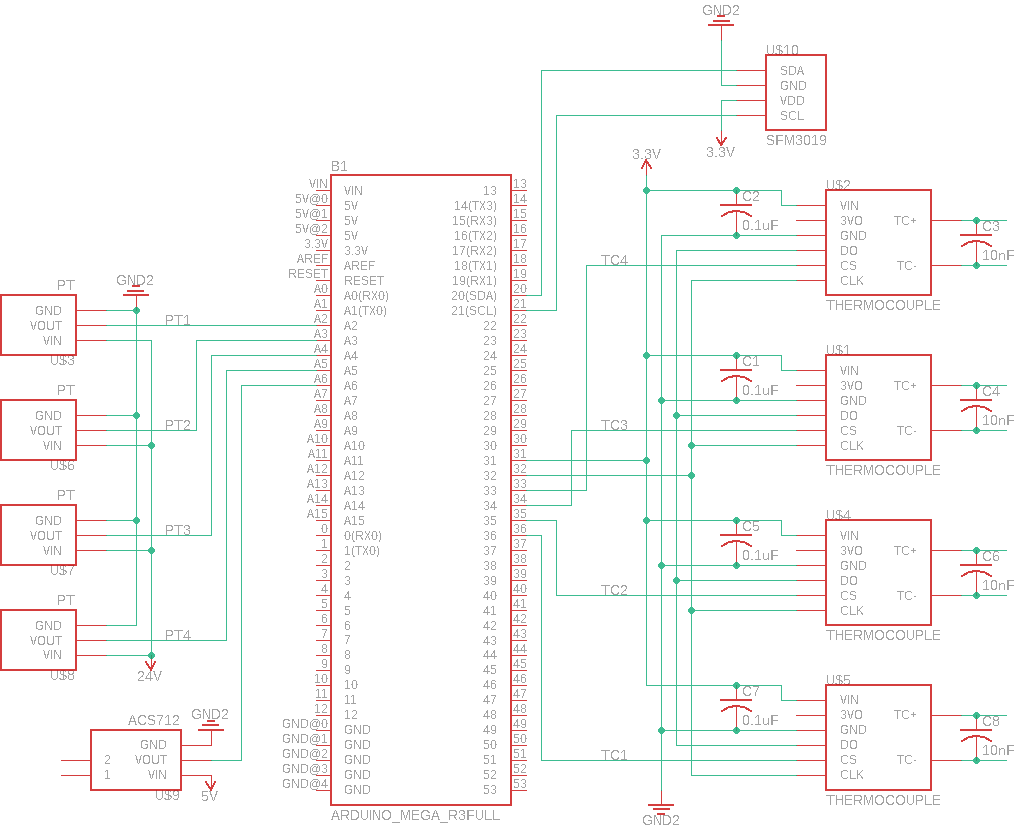
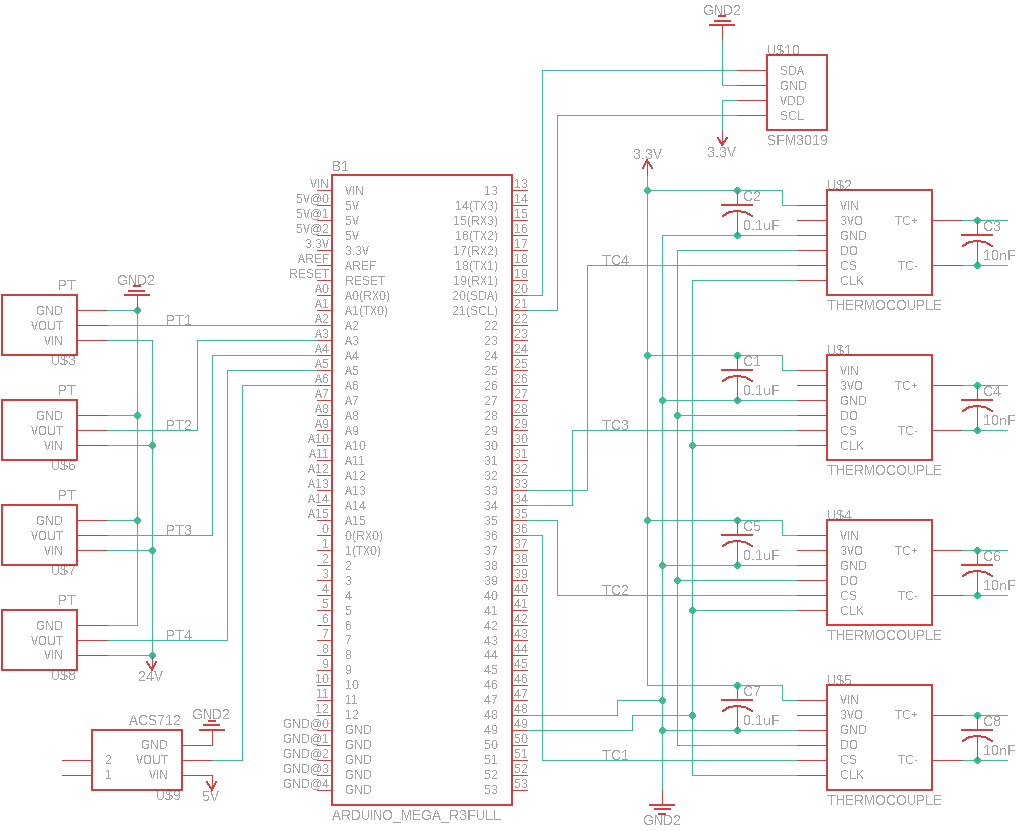
added more instrumentation detail

diff --git a/design/hardware/instrumentation.md b/design/hardware/instrumentation.md
@@ -38,7 +38,7 @@ The test stand has the capability of measuring fluid pressure, temperature, and 
 
 [Type K thermocouples](../../assets/datasheets/JMTSS.pdf) are used to measure the flow temperature at several locations. Flow temperature is measured upstream of the test article, at the mid-point of the test article, and downstream of the test article. The temperature of the heat sink is also take for safety limits. Each of the four thermocouples are ungrounded MGO probes with a 1/8 in. SS 304 sheath.
 
-To perform temperature measurement, [MAX31855](../../assets/datasheets/MAX31855.pdf) chips are used. These chips are 14-bit analog to digital converters which communicate via read-only SPI. A 0.1 uF capacitor is placed between VIN and GND on each chip to filter the input, and a 10 nF capacitor is placed between the thermocouple leads to filter out noise. Each of the chips share the DO (data output) and CLK (clock) lines, but each is assigned its own CS (chip select) line. Example Arduino may be found [here](https://github.com/Zanduino/MAX31855/blob/master/examples/Demo/Demo.ino).
+To perform temperature measurement, [MAX31855](../../assets/datasheets/MAX31855.pdf) chips are used. These chips are 14-bit analog to digital converters which communicate via read-only SPI. A 0.1 uF capacitor is placed between VIN and GND on each chip to filter the input, and a 10 nF capacitor is placed between the thermocouple leads to filter out noise. Each of the chips share the DO (data output) and CLK (clock) lines, but each is assigned its own CS (chip select) line. Example Arduino firmware may be found [here](https://github.com/Zanduino/MAX31855/blob/master/examples/Demo/Demo.ino).
 
 |![Thermocouple ADC](../../assets/images/thermocouple_adc.png)|
 |:-:|
@@ -112,7 +112,7 @@ To perform temperature measurement, [MAX31855](../../assets/datasheets/MAX31855.
 
 #### Pressure Transducers
 
-The pressure transducers used in the experiment are analog sensors which output a 0-10 VDC signal linearly correlated to a 0-200 psig range. These pressure transducers require a 14-36 VDC excitation, though, the instrumentation configuration here supplies a 24 VDC supply precisely. The 10-bit resolution of the Arduino Mega 2560's built-in analog-to-digital converter is sufficient for this test stand as can resolve 0.488 psig change in pressure. Although the analog input of the Arduino is 5 VDC while the pressure transducers output 10 VDC full range, the pressures experienced during testing will remain below 100 psig, meaning the pressure transducers never output more than 5 VDC.
+The pressure transducers used in the experiment are analog sensors which output a 0-10 VDC signal linearly correlated to a 0-200 psig range. These pressure transducers require a 14-36 VDC excitation, though, the instrumentation configuration here supplies a 24 VDC supply precisely. The 10-bit resolution of the Arduino Mega 2560's built-in analog-to-digital converter is sufficient for this test stand as it can resolve 0.488 psig change in pressure. Although the analog input of the Arduino is 5 VDC while the pressure transducers output 10 VDC full range, the pressures experienced during testing will remain below 100 psig, meaning the pressure transducers will never output more than 5 VDC.
 
 To convert from voltage to pressure, the following relation is used.
 
@@ -126,11 +126,21 @@ The pressure transducers have their excitation lines tied together at 24 VDC, gr
 
 #### Mass Flow Meter
 
+The test stand utilizes a cost effective [Sensiron mass flow meter](../../assets/datasheets/Sensirion_Mass_Flow_Meters_SFM3019_Datasheet.pdf) which is a digital flow meter with a range up to 240 slm with a low pressure drop across the sensor. It communicates via I<sup>2</sup>C with the Arduino.
+
+The [Sensiron GitHub repository](https://github.com/Sensirion/embedded-sfm/tree/master/sfm3019) provides an example Arduino implementation to operate the sensor.
+
 |![Mass Flow Sensor](../../assets/images/mass_flow_sensor.png)|
 |:-:|
 |Mass Flow Sensor|
 
 #### Current Sensor
+
+To measure the power supplied by the heater, an ACS712 current sensor is used. This Hall effect-based linear current sensor has a range of 5 Amps and produces an analog voltage between 0-5 VDC proportional to the measured current.
+
+Using the 10-bit analog-to-digital converter on the Arduino Mega, the sensor can resolve a 5 mA change in current. Assuming the mains AC voltage supplied is a constant 120 VAC, the power supplied by the heater is calculated via Joule heating:
+
+$$ P = IV$$
 
 |![Current Sensor](../../assets/images/current_sensor.jpg)|
 |:-:|
